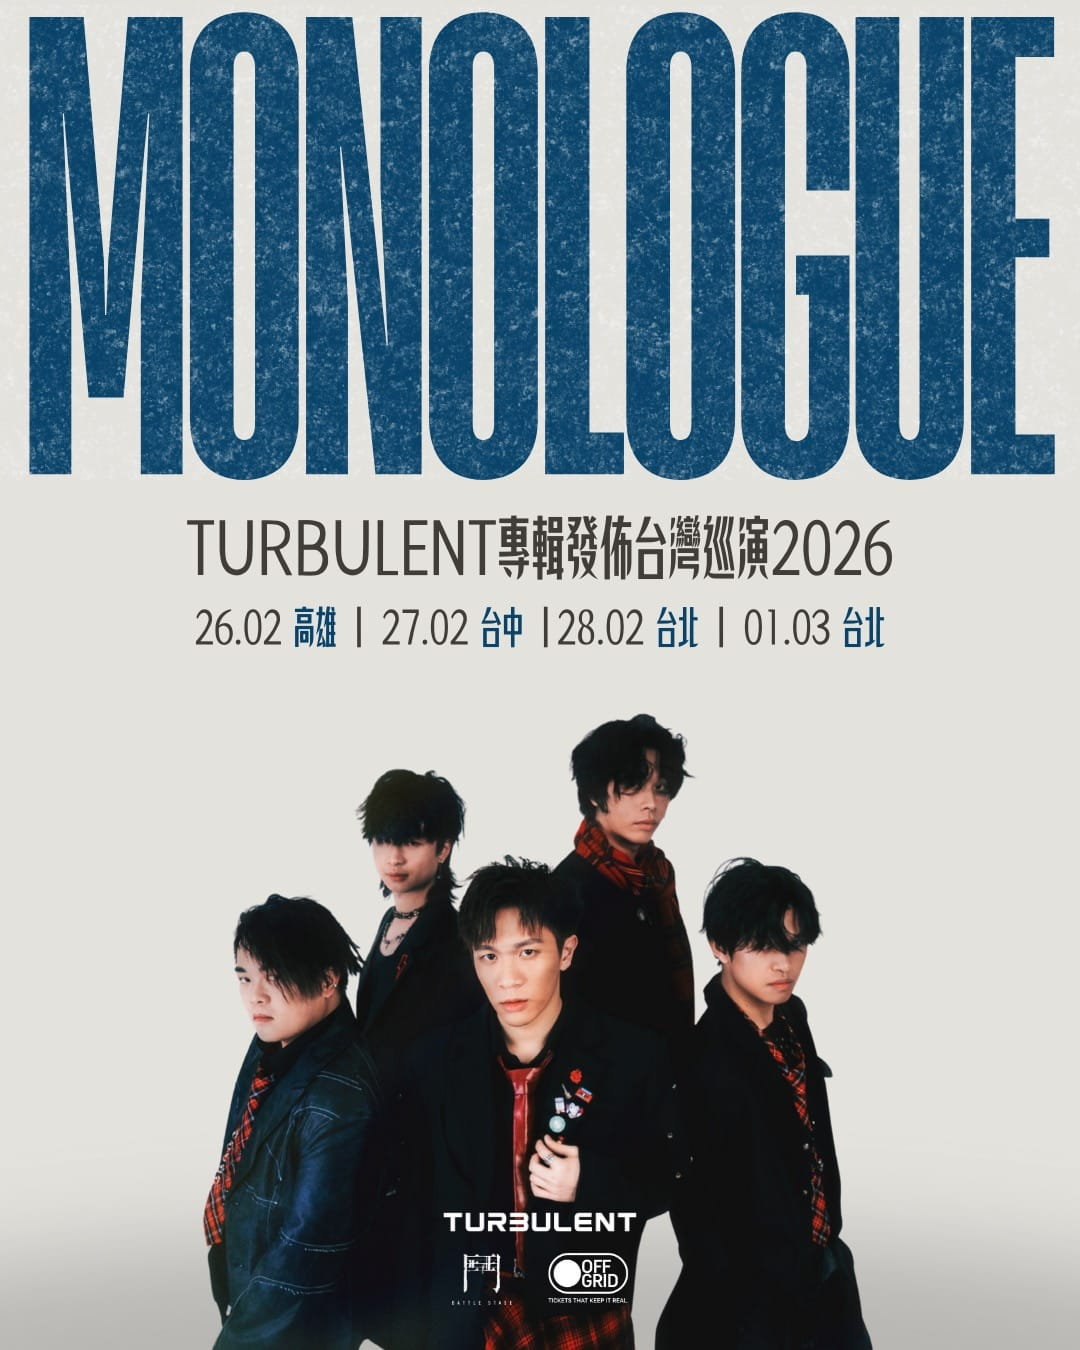
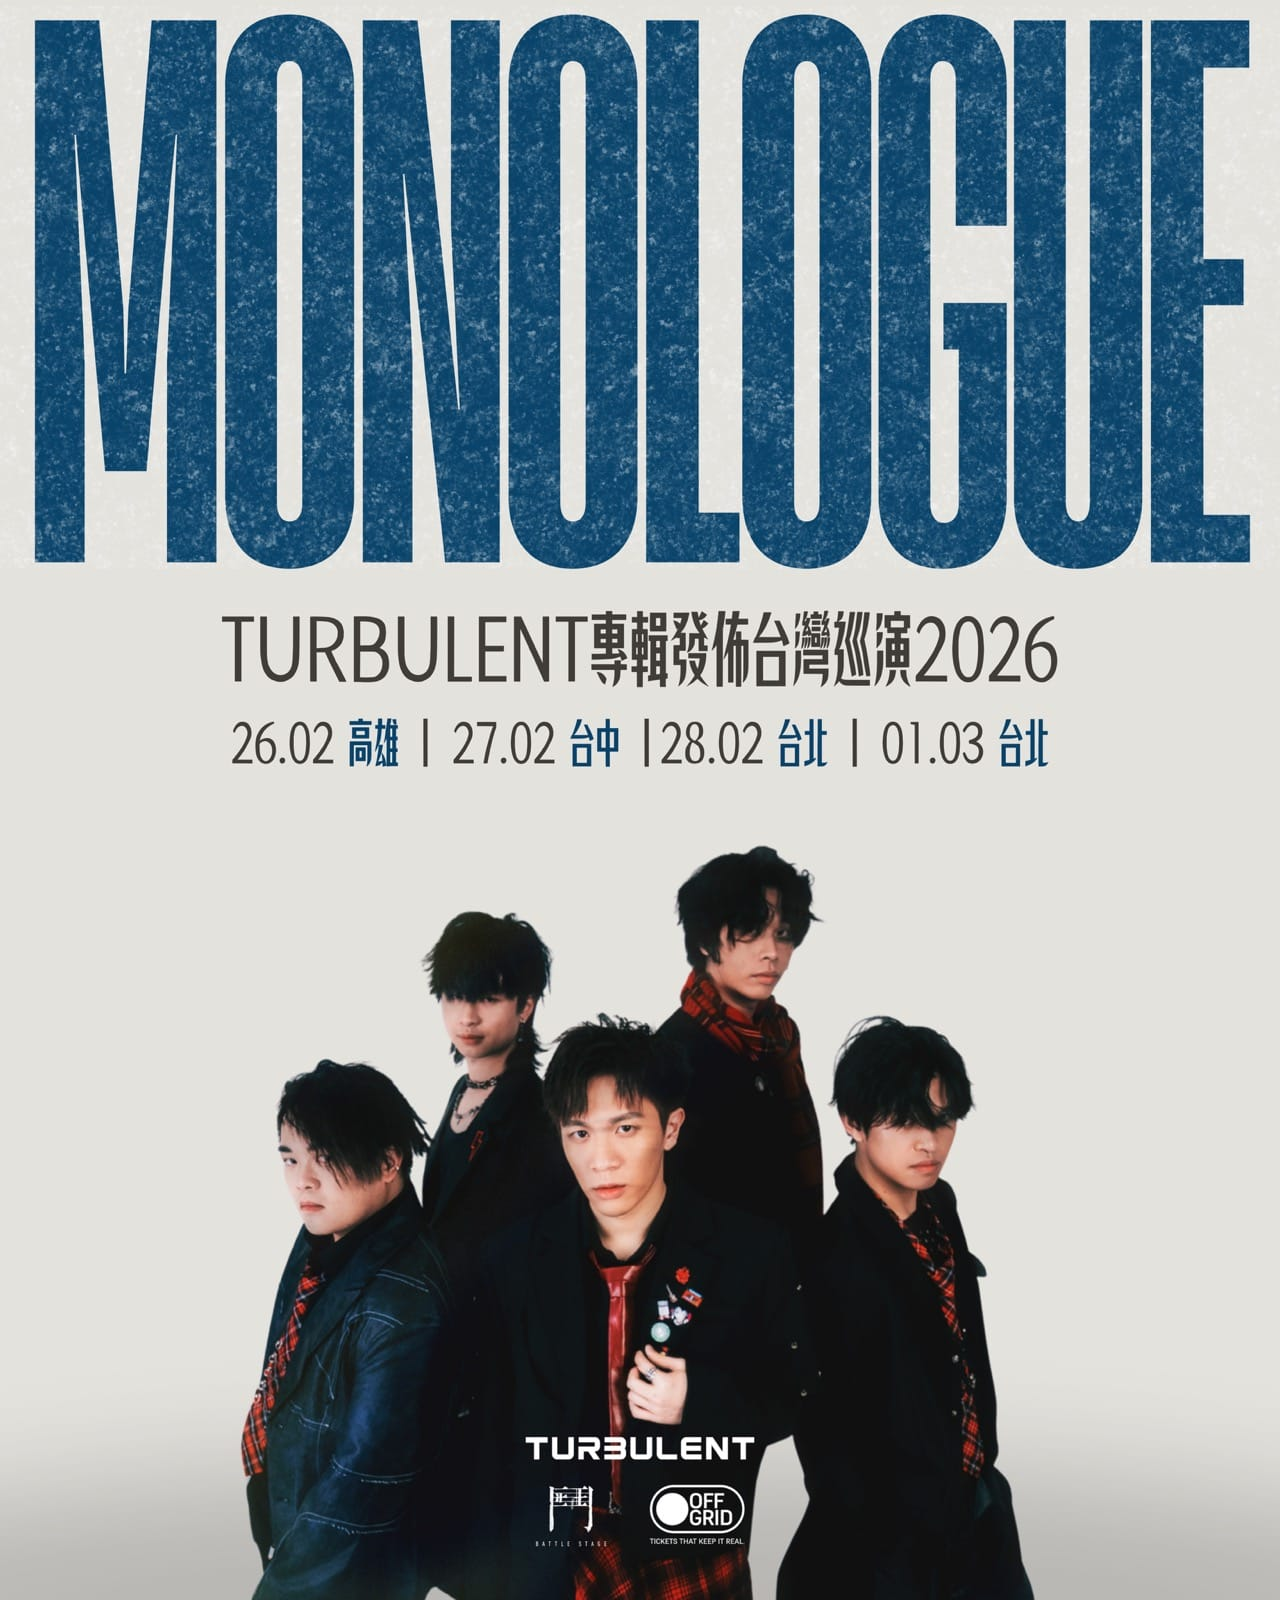
commit v3 hero & news page

Changed region(s): [[0.5194, 0.9022, 0.5806, 0.9644], [0.275, 0.4356, 0.3056, 0.4978], [0.6111, 0.4356, 0.6417, 0.4667]]

diff --git a/frontend/src/components/ShowDetail.jsx b/frontend/src/components/ShowDetail.jsx
@@ -8,6 +8,9 @@ const ShowDetail = () => {
   const [loading, setLoading] = useState(true);
   const [error, setError] = useState(null);
   const navigate = useNavigate();
+  
+  // 新增：用於存放當前要放大的圖片 URL
+  const [selectedImg, setSelectedImg] = useState(null);
 
   const API_URL = import.meta.env.VITE_BACKEND_URL;
 
@@ -26,9 +29,18 @@ const ShowDetail = () => {
     fetchShowDetail();
   }, [API_URL, id]);
 
-  if (loading) return <p className="text-center text-xl">Loading...</p>;
-  if (error) return <p className="text-center text-red-500">Error: {error}</p>;
-  if (!show) return <p className="text-center">Show not found</p>;
+  // 當彈窗開啟時，禁止頁面滾動
+  useEffect(() => {
+    if (selectedImg) {
+      document.body.style.overflow = "hidden";
+    } else {
+      document.body.style.overflow = "unset";
+    }
+  }, [selectedImg]);
+
+  if (loading) return <p className="text-center text-xl pt-20">Loading...</p>;
+  if (error) return <p className="text-center text-red-500 pt-20">Error: {error}</p>;
+  if (!show) return <p className="text-center pt-20">Show not found</p>;
 
   const isPastEvent = new Date(show.date) < new Date();
   const instagramButtonText = isPastEvent
@@ -36,21 +48,45 @@ const ShowDetail = () => {
     : "View show details on Instagram";
 
   return (
-    <div className="show-detail container mx-auto p-4 md:p-8">
-      {/* 限制容器最大寬度，避免在大螢幕上分散太開 */}
+    <div className="show-detail container mx-auto p-4 md:p-8 relative">
+      
+      {/* 1. 圖片彈窗 Modal */}
+      {selectedImg && (
+        <div 
+          className="fixed inset-0 z-[100] flex items-center justify-center bg-black/90 backdrop-blur-md cursor-zoom-out p-4 md:p-10"
+          onClick={() => setSelectedImg(null)}
+        >
+          <button className="absolute top-6 right-6 text-white text-4xl font-light hover:scale-110 transition-transform">
+            ✕
+          </button>
+          <img
+            src={selectedImg}
+            alt="Full view"
+            className="max-w-full max-h-full object-contain shadow-2xl animate-in zoom-in duration-300"
+            onClick={(e) => e.stopPropagation()} // 防止點擊圖片本身時關閉
+          />
+        </div>
+      )}
+
       <div className="flex flex-col lg:flex-row lg:items-start lg:space-x-12 mb-4 max-w-6xl mx-auto">
 
-        {/* 圖片區：增加 max-w-md 讓圖片在桌面端更小 */}
+        {/* 圖片區 */}
         <div className="flex flex-col items-center mb-6 lg:mb-0 lg:w-1/2 w-full">
           {show.image.map((img, index) => (
-            <div key={index} className="w-full max-w-md bg-gray-50 rounded-lg overflow-hidden mb-4 shadow-sm">
+            <div 
+              key={index} 
+              className="group w-full max-w-md bg-gray-50 rounded-lg overflow-hidden mb-4 shadow-sm cursor-zoom-in relative"
+              onClick={() => setSelectedImg(img)} // 點擊開啟彈窗
+            >
               <img
                 src={img}
                 alt={`${show.name} image ${index + 1}`}
-                // object-contain: 確保圖片完整顯示不裁剪
-                // max-h: 防止圖片垂直方向拉得太長
-                className="w-full h-auto max-h-[60vh] object-contain block mx-auto"
+                className="w-full h-auto max-h-[60vh] object-contain block mx-auto transition-transform duration-500 group-hover:scale-[1.02]"
               />
+              {/* Hover 提示文字 */}
+              <div className="absolute inset-0 bg-black/0 group-hover:bg-black/5 flex items-center justify-center transition-all opacity-0 group-hover:opacity-100">
+                <span className="bg-white/80 px-4 py-2 rounded-full text-xs font-bold tracking-widest uppercase shadow-sm">Click to expand</span>
+              </div>
             </div>
           ))}
         </div>
@@ -82,7 +118,6 @@ const ShowDetail = () => {
             </p>
           </div>
 
-          {/* 按鈕區 */}
           <div className="flex flex-col space-y-3 max-w-xs">
             {show.instagramLink && (
               <a

diff --git a/frontend/src/components/Hero.jsx b/frontend/src/components/Hero.jsx
@@ -22,10 +22,9 @@ const Hero = () => {
       btnText: "sm:text-white",
       orderBtnText: "TICKETS", 
       streamBtnText: "TOUR INFO",
-      // 這裡現在可以放內部路徑，也可以放完整網址
       orderLink: "https://www.offgrid.day", 
-      streamUrl: "/shows",
-      heroLink: "/tour",
+      streamUrl: "/shows/69876c55266afcf9ab41b2ae",
+      heroLink: "/shows/69876c55266afcf9ab41b2ae",
     },
     {
       id: 2,
@@ -40,13 +39,12 @@ const Hero = () => {
       btnText: "sm:text-white",
       orderBtnText: "ORDER NOW",
       streamBtnText: "STREAM",
-      orderLink: "/product/6979cafd223a9477d223e7c6", // 測試外部連結
+      orderLink: "/product/6979cafd223a9477d223e7c6",
       streamUrl: "https://orcd.co/monologue_turbulent",
       heroLink: "/shows/6973054cc4bb617639eacce5",
     }
   ];
 
-  // 抽出一個導向函式，自動判斷是內連還是外連
   const handleLink = (path) => {
     if (path.startsWith("http")) {
       window.open(path, "_blank");
@@ -86,12 +84,13 @@ const Hero = () => {
           >
             <div className="w-full h-full flex flex-col sm:flex-row relative z-10">
               
+              {/* 圖片區域：加入了 group 類名來觸發子元素的 hover 效果 */}
               <div 
-                className="w-full h-full sm:w-[55%] relative flex items-center justify-center overflow-hidden sm:p-12 lg:p-20"
+                className="group w-full h-full sm:w-[55%] relative flex items-center justify-center overflow-hidden sm:p-12 lg:p-20"
                 onClick={() => handleLink(slide.heroLink)}
               >
                 <div
-                  className="absolute inset-0 sm:inset-12 lg:inset-20 transition-all duration-700 ease-in-out sm:group-hover:scale-105 sm:drop-shadow-2xl"
+                  className="absolute inset-0 sm:inset-12 lg:inset-20 transition-all duration-700 ease-in-out group-hover:scale-105 group-hover:brightness-110 sm:drop-shadow-2xl"
                   style={{
                     backgroundImage: `url(${slide.image})`,
                     backgroundSize: "contain",
@@ -99,6 +98,8 @@ const Hero = () => {
                     backgroundPosition: "center",
                   }}
                 />
+                {/* 增加一個細微的覆蓋層，讓滑鼠移入時更有回饋感 */}
+                <div className="absolute inset-0 bg-black/0 group-hover:bg-black/[0.02] transition-all duration-700 pointer-events-none" />
               </div>
 
               <div className="absolute bottom-[6%] sm:static sm:w-[45%] sm:flex sm:flex-col sm:items-start sm:justify-center sm:pl-12 z-20 left-0 w-full flex flex-col items-center">
